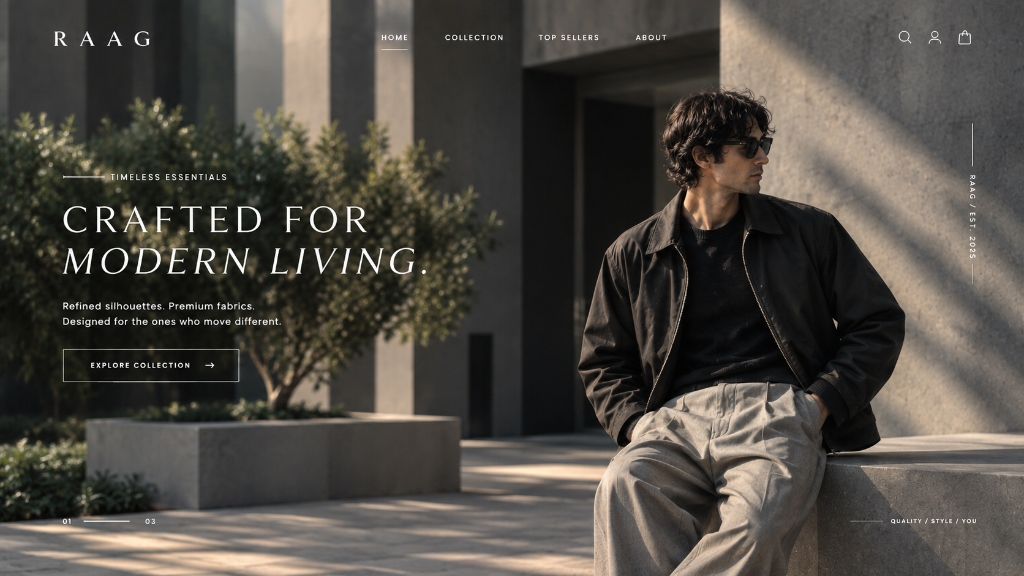
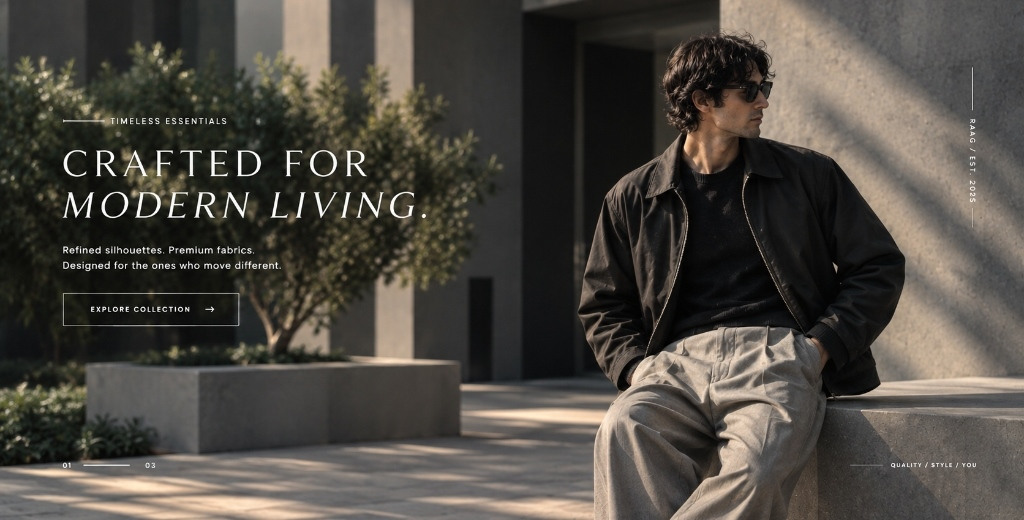
Updated website

diff --git a/index.html b/index.html
@@ -246,38 +246,38 @@ input, textarea, select { font-family: inherit; background: none; border: none; 
 .hairline-top { border-top: 1px solid var(--border-hairline); }
 .eyebrow { color: var(--text-tertiary); }
 
-/* HERO — ENHANCED HIGH-DEFINITION HERO SECTION & PERFECT CTA HOTSPOT */
+/* HERO — CLEAN HIGH-DEFINITION HERO SECTION (NO FAKE HEADER) */
 .hero {
   position: relative;
   width: 100%;
-  aspect-ratio: 16 / 9;
+  aspect-ratio: 16 / 8.2;
   min-height: 420px;
   max-height: 82vh;
   background-image: url('hero.jpg');
   background-size: cover;
-  background-position: center 11%;
+  background-position: center top;
   border-bottom: 1px solid var(--border-hairline);
   overflow: hidden;
   image-rendering: -webkit-optimize-contrast;
-  filter: contrast(1.05) saturate(1.03) brightness(1.02);
+  filter: contrast(1.04) saturate(1.02) brightness(1.02);
   transform: translateZ(0);
   -webkit-backface-visibility: hidden;
   backface-visibility: hidden;
 }
 @media(max-width: 1023px) {
   .hero {
-    aspect-ratio: 16 / 10;
+    aspect-ratio: 16 / 9.5;
     min-height: 380px;
-    background-position: 55% 11%;
+    background-position: 55% top;
   }
 }
 @media(max-width: 767px) {
   .hero {
     aspect-ratio: 4 / 3;
-    height: 62vh;
-    min-height: 340px;
-    max-height: 520px;
-    background-position: 66% 10%;
+    height: 60vh;
+    min-height: 330px;
+    max-height: 500px;
+    background-position: 66% top;
   }
 }
 
@@ -285,7 +285,7 @@ input, textarea, select { font-family: inherit; background: none; border: none; 
 .hero-cta-overlay {
   position: absolute;
   left: 6%;
-  top: 57%;
+  top: 55.5%;
   width: 17.5%;
   min-width: 150px;
   max-width: 220px;
@@ -309,7 +309,7 @@ input, textarea, select { font-family: inherit; background: none; border: none; 
 @media(max-width: 1023px) {
   .hero-cta-overlay {
     left: 5.5%;
-    top: 56.5%;
+    top: 55%;
     width: 24%;
     min-width: 140px;
   }
@@ -317,7 +317,7 @@ input, textarea, select { font-family: inherit; background: none; border: none; 
 @media(max-width: 767px) {
   .hero-cta-overlay {
     left: 5%;
-    top: 55.5%;
+    top: 54%;
     width: 44%;
     min-width: 130px;
     height: 42px;
